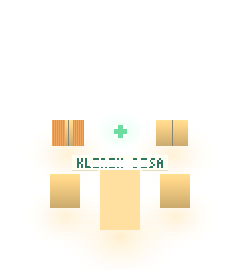
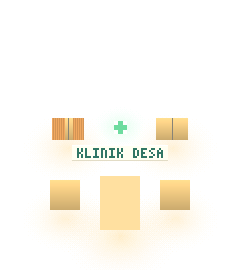
fix(dunia): desa tidak berpola kaku dan papan nama terlihat
Rumah ditebar berkelompok di sepanjang gang berkelok dengan lapangan
kampung dan jalur hijau berpohon di belakang gerai. Papan nama gerai,
klinik dan apotek dipindah di atas tenda/kanopi; label area digambar
di lapisan teratas.

diff --git a/src/features/cooperative-world/pixel/map.ts b/src/features/cooperative-world/pixel/map.ts
@@ -162,6 +162,7 @@ export const areas: MapArea[] = [
   { kind: 'sawah', box: { x: 380, y: 80, w: 780, h: 440 }, label: 'SAWAH DAN KEBUN' },
   { kind: 'kebun', box: { x: 30, y: 820, w: 150, h: 540 }, label: 'KEBUN' },
   { kind: 'permukiman', box: { x: 1300, y: 60, w: 1220, h: 470 }, label: 'PERMUKIMAN WARGA' },
+  { kind: 'taman', box: { x: 1760, y: 360, w: 200, h: 110 }, label: 'LAPANGAN' },
   { kind: 'pasar', box: { x: 380, y: 820, w: 270, h: 220 }, label: 'PASAR TANI' },
   { kind: 'alun', box: { x: 700, y: 820, w: 460, h: 470 }, label: 'ALUN-ALUN' },
   { kind: 'taman', box: { x: 1290, y: 820, w: 430, h: 470 }, label: 'TAMAN DAN LAPANGAN' },
@@ -170,19 +171,28 @@ export const areas: MapArea[] = [
   { kind: 'rencana', box: { x: 2160, y: 1510, w: 340, h: 70 }, label: 'RENCANA SUPLIER' },
 ];
 
-/** Gang kampung (paving) di permukiman: tiga gang mendatar dan tiga gang tegak. */
+/** Gang kampung berkelok: titik-titik jalur disusun dari kotak kecil agar dapat diubin. */
+function meander(points: (t: number) => [number, number], steps: number, size = 26): Box[] {
+  const boxes: Box[] = [];
+  for (let k = 0; k <= steps; k++) {
+    const [x, y] = points(k / steps);
+    boxes.push({ x: Math.round(x - size / 2), y: Math.round(y - size / 2), w: size, h: size });
+  }
+  return boxes;
+}
 export const villageLanes: Box[] = [
-  { x: 1300, y: 176, w: 1220, h: 24 },
-  { x: 1300, y: 300, w: 1220, h: 24 },
-  { x: 1300, y: 430, w: 1220, h: 24 },
-  ...[1596, 1900, 2204].map((x) => ({ x, y: 60, w: 24, h: 470 })),
+  // gang utama mendatar, bergelombang lembut
+  ...meander((t) => [1300 + t * 1220, 300 + Math.sin(t * Math.PI * 3) * 28], 110),
+  // dua gang menuju Jalan Desa (di antara kavling gerai, bukan di belakangnya)
+  ...meander((t) => [1640 + Math.sin(t * Math.PI * 2) * 34, 70 + t * 632], 60),
+  ...meander((t) => [2380 + Math.sin(t * Math.PI * 2.5 + 1) * 30, 120 + t * 582], 55),
+  // gang pendek ke utara
+  ...meander((t) => [2010 + Math.sin(t * Math.PI) * 40, 80 + t * 200], 22),
 ];
+/** Lapangan kampung (tanpa rumah) dan jalur hijau di belakang kavling gerai. */
+export const villageField: Box = { x: 1760, y: 360, w: 200, h: 110 };
+const villageKeepOut: Box[] = [villageField, { x: 1300, y: 455, w: 1220, h: 245 }];
 
-/**
- * Rumah warga (hiasan, tidak dapat dipilih) berderet menghadap gang dengan lebar, tinggi,
- * jarak dan warna atap bervariasi; sebagian petak dibiarkan menjadi halaman berpohon.
- * Acak berbiji tetap agar susunan sama di setiap kunjungan.
- */
 /** Tiga jenis rumah warga (warna dinding/atap, tinggi) × tiga lebar = sembilan sprite. */
 export const HOUSE_KINDS = {
   a: { wall: '#d9c9a3', roof: '#a8563c', height: 56 },
@@ -192,47 +202,72 @@ export const HOUSE_KINDS = {
 export const HOUSE_WIDTHS = [88, 100, 112] as const;
 export const HOUSE_DEPTH = 44;
 
+const overlaps = (a: Box, b: Box) =>
+  a.x < b.x + b.w && b.x < a.x + a.w && a.y < b.y + b.h && b.y < a.y + a.h;
+
+/**
+ * Rumah warga (hiasan, tidak dapat dipilih) ditebar berkelompok tak beraturan: titik acak
+ * berbiji tetap, ditolak bila menimpa gang, lapangan, jalur hijau belakang gerai, atau tampilan
+ * rumah lain (tapak + tinggi fasad + jarak). Sebagian titik kosong menjadi pohon pekarangan.
+ */
 function layVillage() {
+  // mulberry32: acak berbiji tetap yang merata (LCG sederhana berulang terlalu cepat)
   let seed = 20261007;
-  const rnd = () => (seed = (seed * 1103515245 + 12345) & 0x7fffffff) / 0x7fffffff;
+  const rnd = () => {
+    seed = (seed + 0x6d2b79f5) | 0;
+    let t = Math.imul(seed ^ (seed >>> 15), 1 | seed);
+    t = (t + Math.imul(t ^ (t >>> 7), 61 | t)) ^ t;
+    return ((t ^ (t >>> 14)) >>> 0) / 4294967296;
+  };
   const kinds = Object.keys(HOUSE_KINDS) as (keyof typeof HOUSE_KINDS)[];
-  const fronts = [166, 290, 420, 520];
-  const segments: [number, number][] = [
-    [1312, 1590],
-    [1626, 1894],
-    [1930, 2198],
-    [2234, 2510],
-  ];
   const built: MapBuilding[] = [];
   const yards: [number, number, number][] = [];
-  fronts.forEach((front, r) =>
-    segments.forEach(([from, to], s) => {
-      let x = from + Math.round(rnd() * 16);
-      let n = 0;
-      for (;;) {
-        const w = HOUSE_WIDTHS[Math.floor(rnd() * HOUSE_WIDTHS.length)];
-        if (x + w > to) break;
-        if (rnd() < 0.18) {
-          yards.push([x + w / 2, front - 4, 14 + Math.round(rnd() * 8)]);
-        } else {
-          const kind = kinds[Math.floor(rnd() * kinds.length)];
-          const look = HOUSE_KINDS[kind];
-          built.push({
-            id: `rumah-${r}-${s}-${n++}`,
-            sprite: `rumah-${kind}-${w}`,
-            select: 'kawasan',
-            title: 'Rumah warga',
-            style: 'rumah',
-            foot: { x, y: front - HOUSE_DEPTH, w, h: HOUSE_DEPTH },
-            height: look.height,
-            wall: look.wall,
-            roof: look.roof,
-          });
-        }
-        x += w + 16 + Math.round(rnd() * 22);
-      }
-    }),
-  );
+  const taken: Box[] = [];
+  const area = { x: 1310, y: 70, w: 1200, h: 380 };
+  for (let attempt = 0; attempt < 20000 && built.length < 26; attempt++) {
+    const w = HOUSE_WIDTHS[Math.floor(rnd() * HOUSE_WIDTHS.length)];
+    const kind = kinds[Math.floor(rnd() * kinds.length)];
+    const look = HOUSE_KINDS[kind];
+    const x = Math.round(area.x + rnd() * (area.w - w));
+    const front = Math.round(
+      area.y + look.height + HOUSE_DEPTH + rnd() * (area.h - look.height - HOUSE_DEPTH),
+    );
+    const foot = { x, y: front - HOUSE_DEPTH, w, h: HOUSE_DEPTH };
+    // tampilan rumah = tapak + fasad di atasnya, diberi jarak agar papan/atap tidak bertumpuk
+    const look2d = {
+      x: x - 10,
+      y: foot.y - look.height - 6,
+      w: w + 20,
+      h: HOUSE_DEPTH + look.height + 14,
+    };
+    if (taken.some((b) => overlaps(b, look2d))) continue;
+    if (
+      villageLanes.some((l) =>
+        overlaps(l, { x: x - 4, y: foot.y - 4, w: w + 8, h: HOUSE_DEPTH + 8 }),
+      )
+    )
+      continue;
+    if (villageKeepOut.some((k) => overlaps(k, look2d))) continue;
+    taken.push(look2d);
+    if (rnd() < 0.12) {
+      yards.push([x + w / 2, front - 6, 16 + Math.round(rnd() * 8)]);
+      continue;
+    }
+    built.push({
+      id: `rumah-${built.length}`,
+      sprite: `rumah-${kind}-${w}`,
+      select: 'kawasan',
+      title: 'Rumah warga',
+      style: 'rumah',
+      foot,
+      height: look.height,
+      wall: look.wall,
+      roof: look.roof,
+    });
+  }
+  // pohon dan kebun pekarangan di jalur hijau belakang gerai
+  for (let x = 1340; x < 2500; x += 90 + Math.round(rnd() * 60))
+    yards.push([x, 520 + Math.round(rnd() * 40), 18 + Math.round(rnd() * 10)]);
   return { built, yards };
 }
 const village = layVillage();

diff --git a/src/features/cooperative-world/pixel/engine.ts b/src/features/cooperative-world/pixel/engine.ts
@@ -103,6 +103,21 @@ function tiled(texture: Texture, box: Box) {
   return sprite;
 }
 
+/** Label area digambar di lapisan teratas agar tidak tertutup bangunan atau pohon. */
+function drawAreaLabels() {
+  const labels = new Graphics();
+  for (const a of areas)
+    if (a.label) {
+      const w = pixelTextWidth(a.label, 2) + 12;
+      labels
+        .rect(a.box.x + a.box.w / 2 - w / 2, a.box.y - 8, w, 18)
+        .fill(gradeHex('#f6efd8'))
+        .stroke({ width: 2, color: OL });
+      drawPixelText(labels, a.label, a.box.x + a.box.w / 2 - w / 2 + 6, a.box.y - 4, OL, 2);
+    }
+  return labels;
+}
+
 function drawGround(layer: Container) {
   const grass = noiseTexture(
     [
@@ -185,17 +200,7 @@ function drawGround(layer: Container) {
   water.circle(930, 1040, 44).fill(gradeHex('#d0c8b8')).stroke({ width: 3, color: OL });
   water.circle(930, 1040, 36).fill(gradeHex('#6fa7c0'));
   layer.addChild(water, marks);
-  const labels = new Graphics();
-  for (const a of areas)
-    if (a.label) {
-      const w = pixelTextWidth(a.label, 2) + 12;
-      labels
-        .rect(a.box.x + a.box.w / 2 - w / 2, a.box.y - 8, w, 18)
-        .fill(gradeHex('#f6efd8'))
-        .stroke({ width: 2, color: OL });
-      drawPixelText(labels, a.label, a.box.x + a.box.w / 2 - w / 2 + 6, a.box.y - 4, OL, 2);
-    }
-  layer.addChild(labels);
+  return drawAreaLabels();
 }
 
 /** Bangunan greybox bergaya pixel: atap, fasad, jendela, pintu, papan nama. Aset final di P3. */
@@ -314,7 +319,7 @@ export async function createWorld(
   const glow = new Container();
   glow.blendMode = 'add';
   app.stage.addChild(world, night, glow);
-  drawGround(ground);
+  overlay.addChild(drawGround(ground));
 
   let tapGuard = false;
   const all = [...mapBuildings, ...houses];
